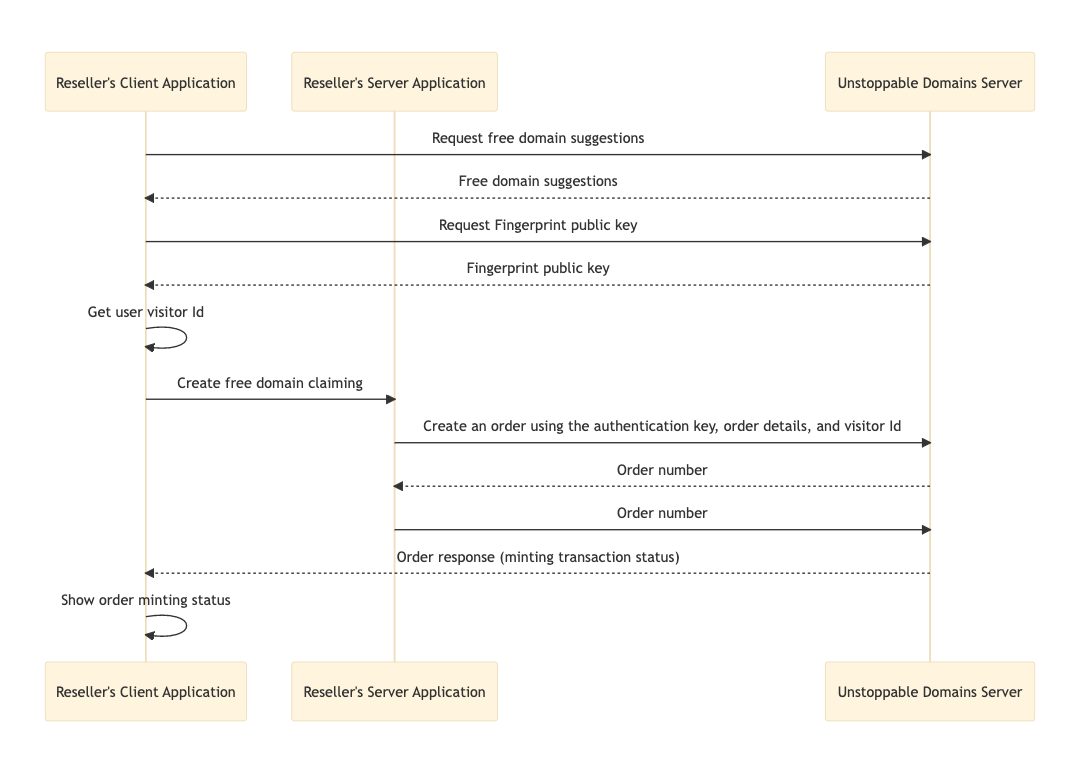
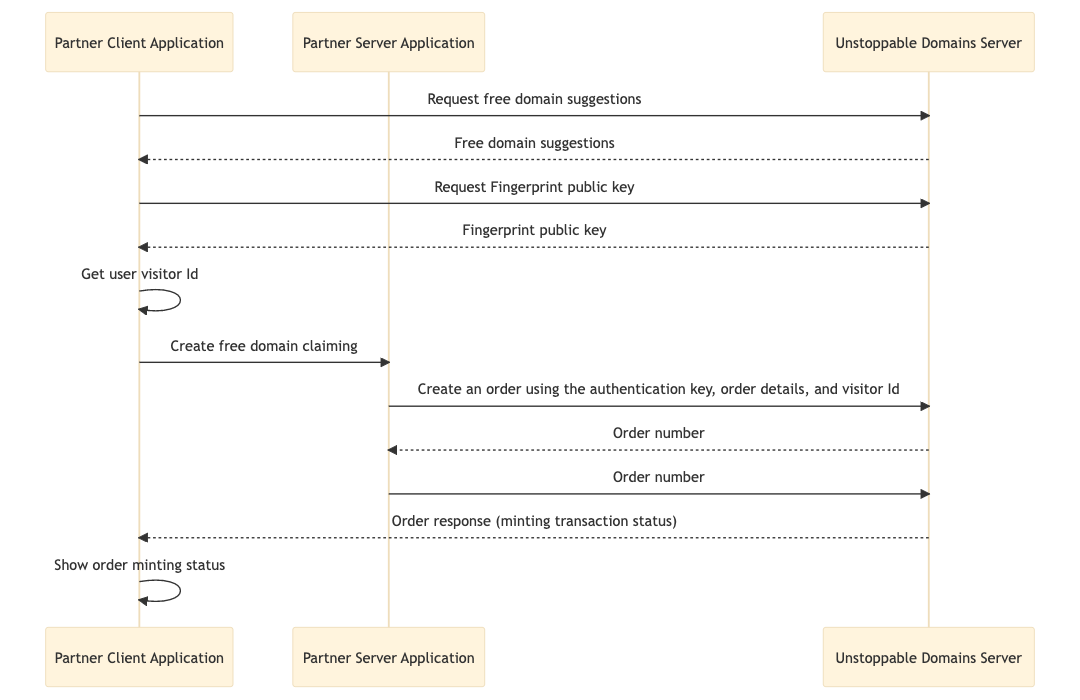
add image to explain domain actions API usage

diff --git a/partner/domain-actions-guides/overview.md b/partner/domain-actions-guides/overview.md
@@ -7,9 +7,16 @@ description: This page provides a high-level overview of the Domain Actions API 
 
 The Domain Actions API from Unstoppable Domains is designed to make it easier for Partners to interact with domains on the blockchain. It provides a convenient way to generate the transactions needed to perform various actions, such as updating domain records, configuring reverse resolution, or transferring domain ownership.
 
-This allows Partners to quickly and efficiently perform these actions with a single API request without worrying about the complex details of forming transactions on the client side. Overall, the Domain Actions API is designed to save Partners time and effort when working with domains on the blockchain.
+This allows Partners to quickly and efficiently perform these actions with a single API request without worrying about the complex details of forming transactions on the client side.
 
-<!-- The following diagram shows the general process between the Partner and Unstoppable Domains when using the Domain Actions API. -->
+The diagram below illustrates the general process between a Partner and Unstoppable Domains when utilizing the Domain Actions API.
+
+<figure>
+
+![Domain action API success flow](/images/domain-action-api-flow.png '#width=80%;')
+
+<figcaption>Domain action API success flow</figcaption>
+</figure>
 
 ## Gas Compensation Policies
 

diff --git a/partner/partner-integration-guides/mint-free-domains.md b/partner/partner-integration-guides/mint-free-domains.md
@@ -7,7 +7,7 @@ description: This guide shows how to mint free domains with your Partner account
 
 Unstoppable Domains offers free domain minting to Partners based on specified criteria. Authorized Partners can use the following API endpoints: [Get Free Domains Suggestions](https://docs.unstoppabledomains.com/openapi/reference/#operation/GetDomainsSuggestionsFree), [Reserve Free Domain Name](https://docs.unstoppabledomains.com/openapi/reference/#operation/PostDomainReserve), and [Claim Free Domain](https://docs.unstoppabledomains.com/openapi/reference/#operation/PostOrders).
 
-The following diagram shows the general process between the Partner and Unstoppable Domains during the free domain minting process.
+The diagram below illustrates the general process between a Partner and Unstoppable Domains during the process of minting a free domain.
 
 <figure>
 

diff --git a/partner/partner-integration-guides/stripe-payments.md b/partner/partner-integration-guides/stripe-payments.md
@@ -7,7 +7,7 @@ description: This guide shows how to purchase domains using the Stripe payment p
 
 Unstoppable Domains supports [Stripe](https://stripe.com) payments to process payments from Partners. Stripe is a payment provider that allows you to accept credit cards, PayPal, and Apple Pay from customers. This is a recommended and secure payment method for partners that mostly use client-side applications.
 
-The following diagram shows the general process between the Partner and Unstoppable Domains during the Stripe payment process.
+The diagram below illustrates the general process between a Partner and Unstoppable Domains during the process of buying a domain with Stripe.
 
 <figure>
 
